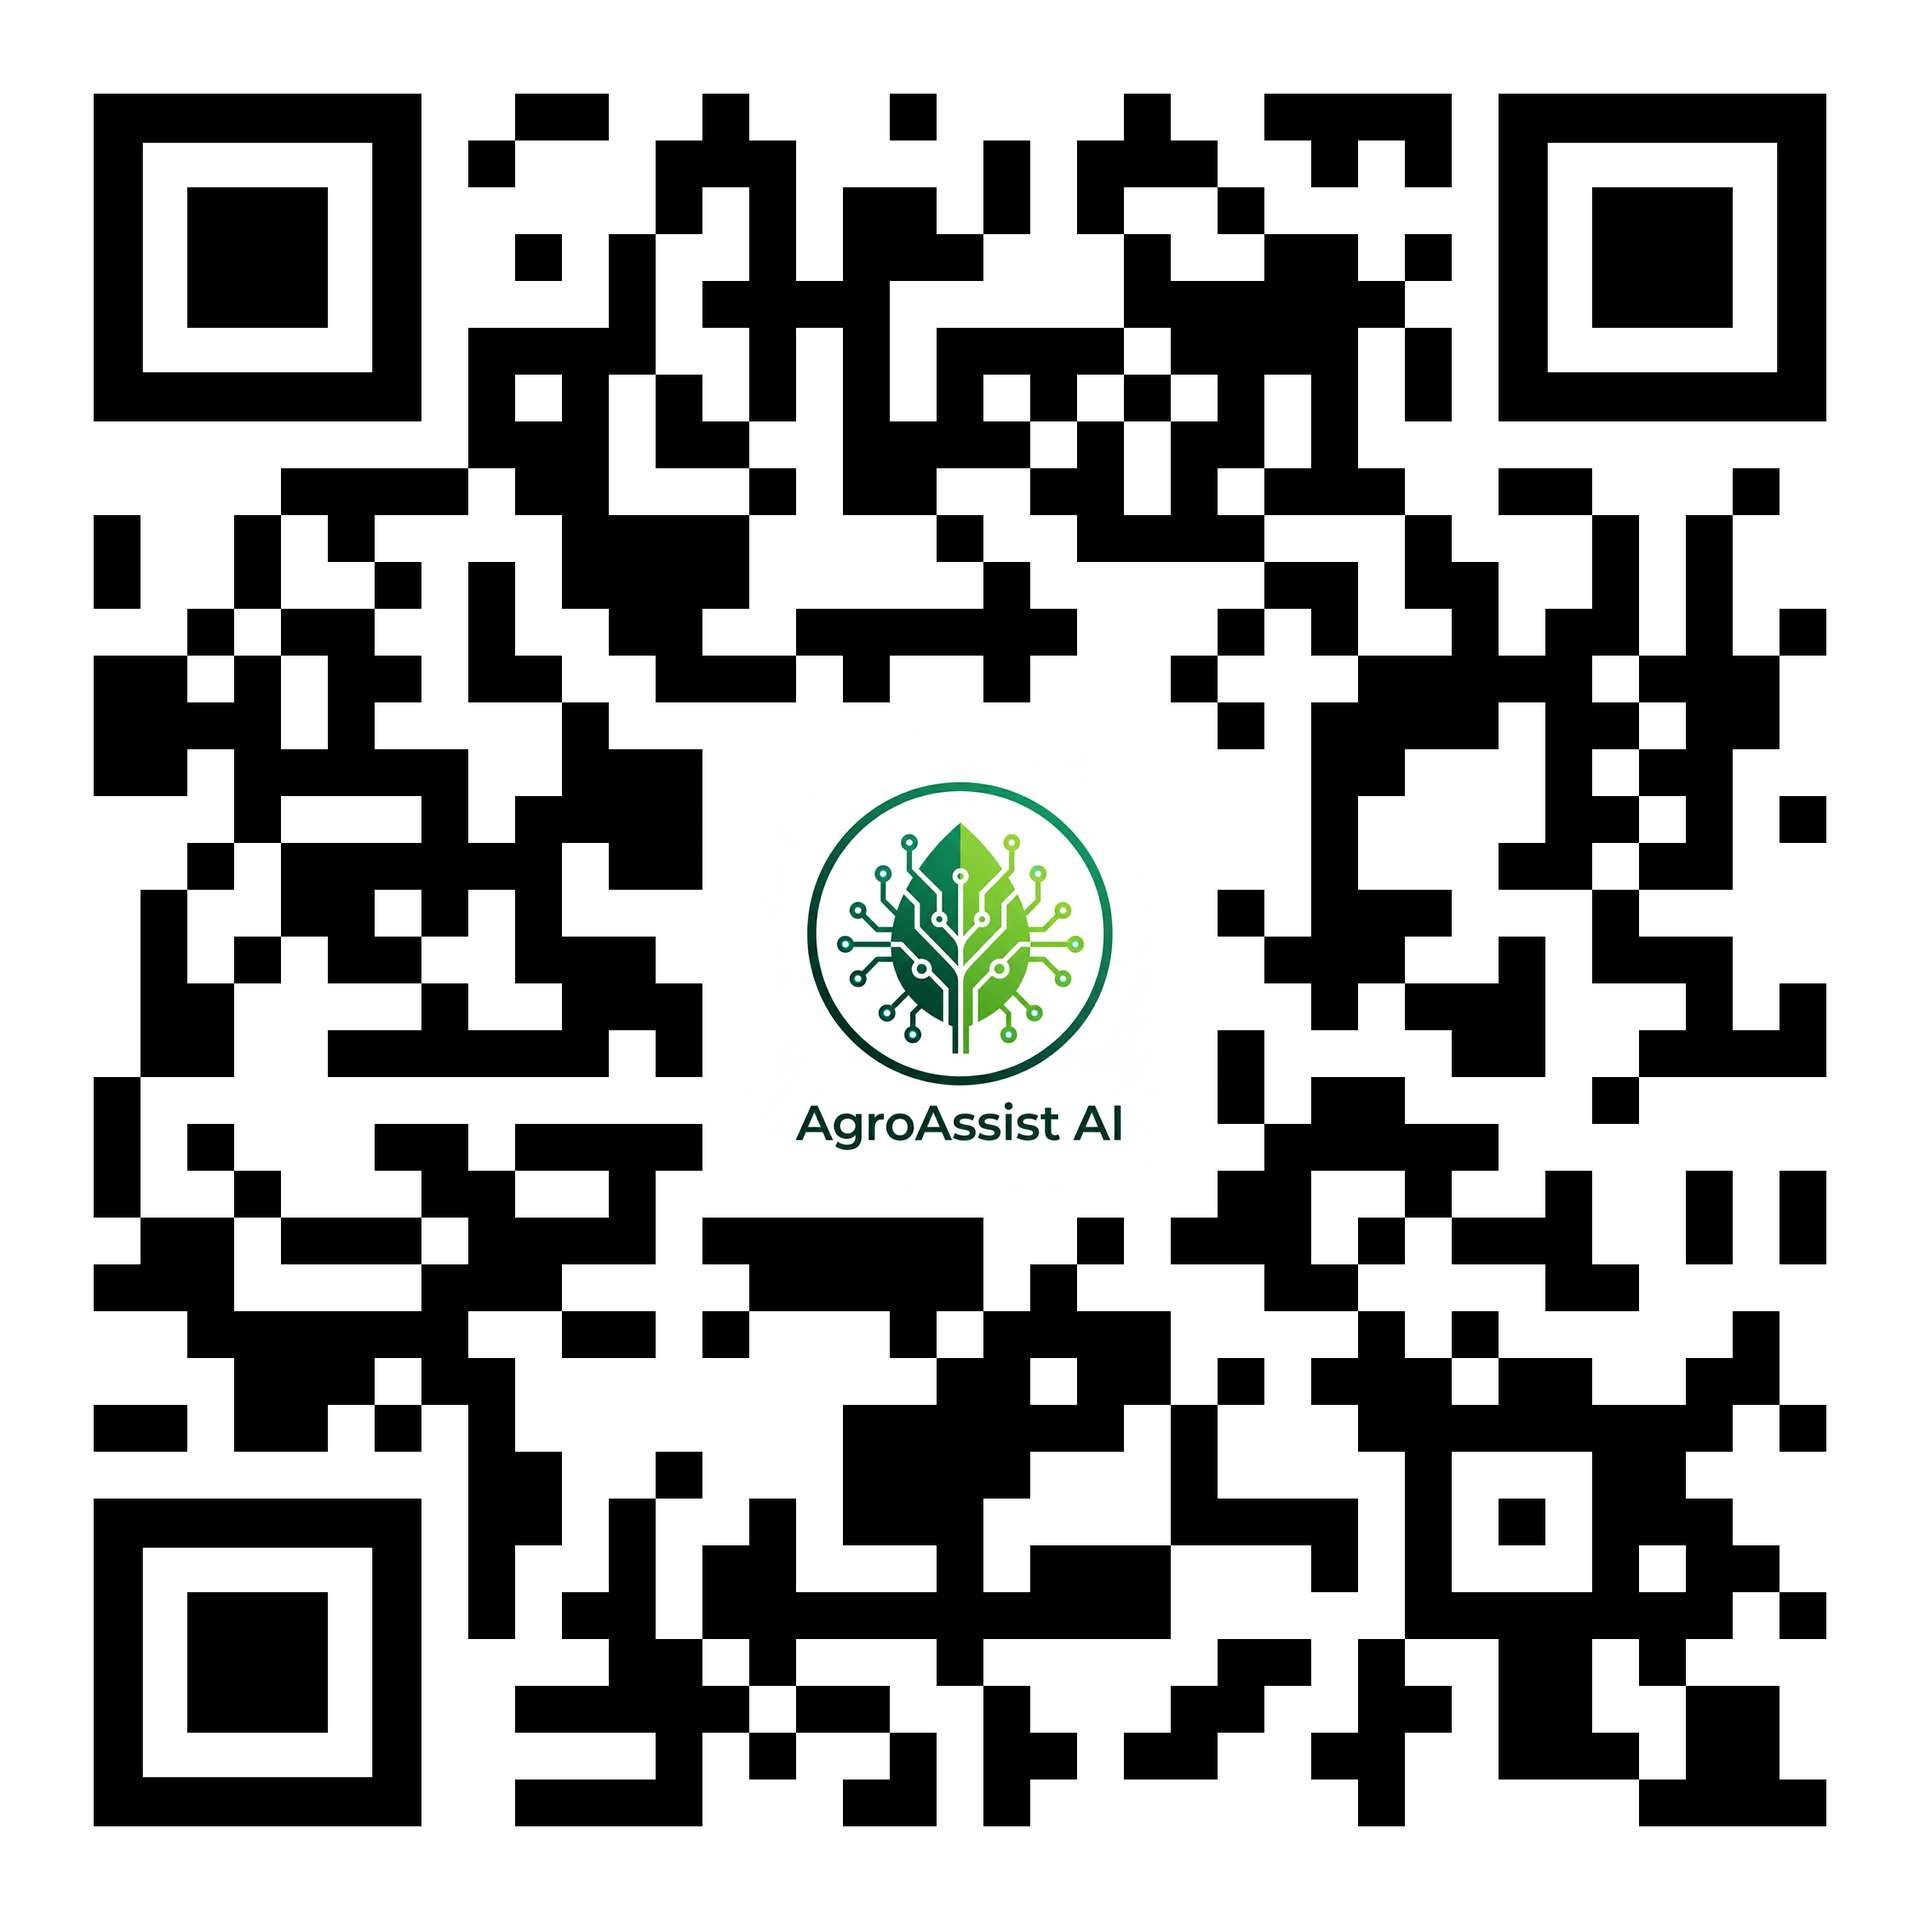
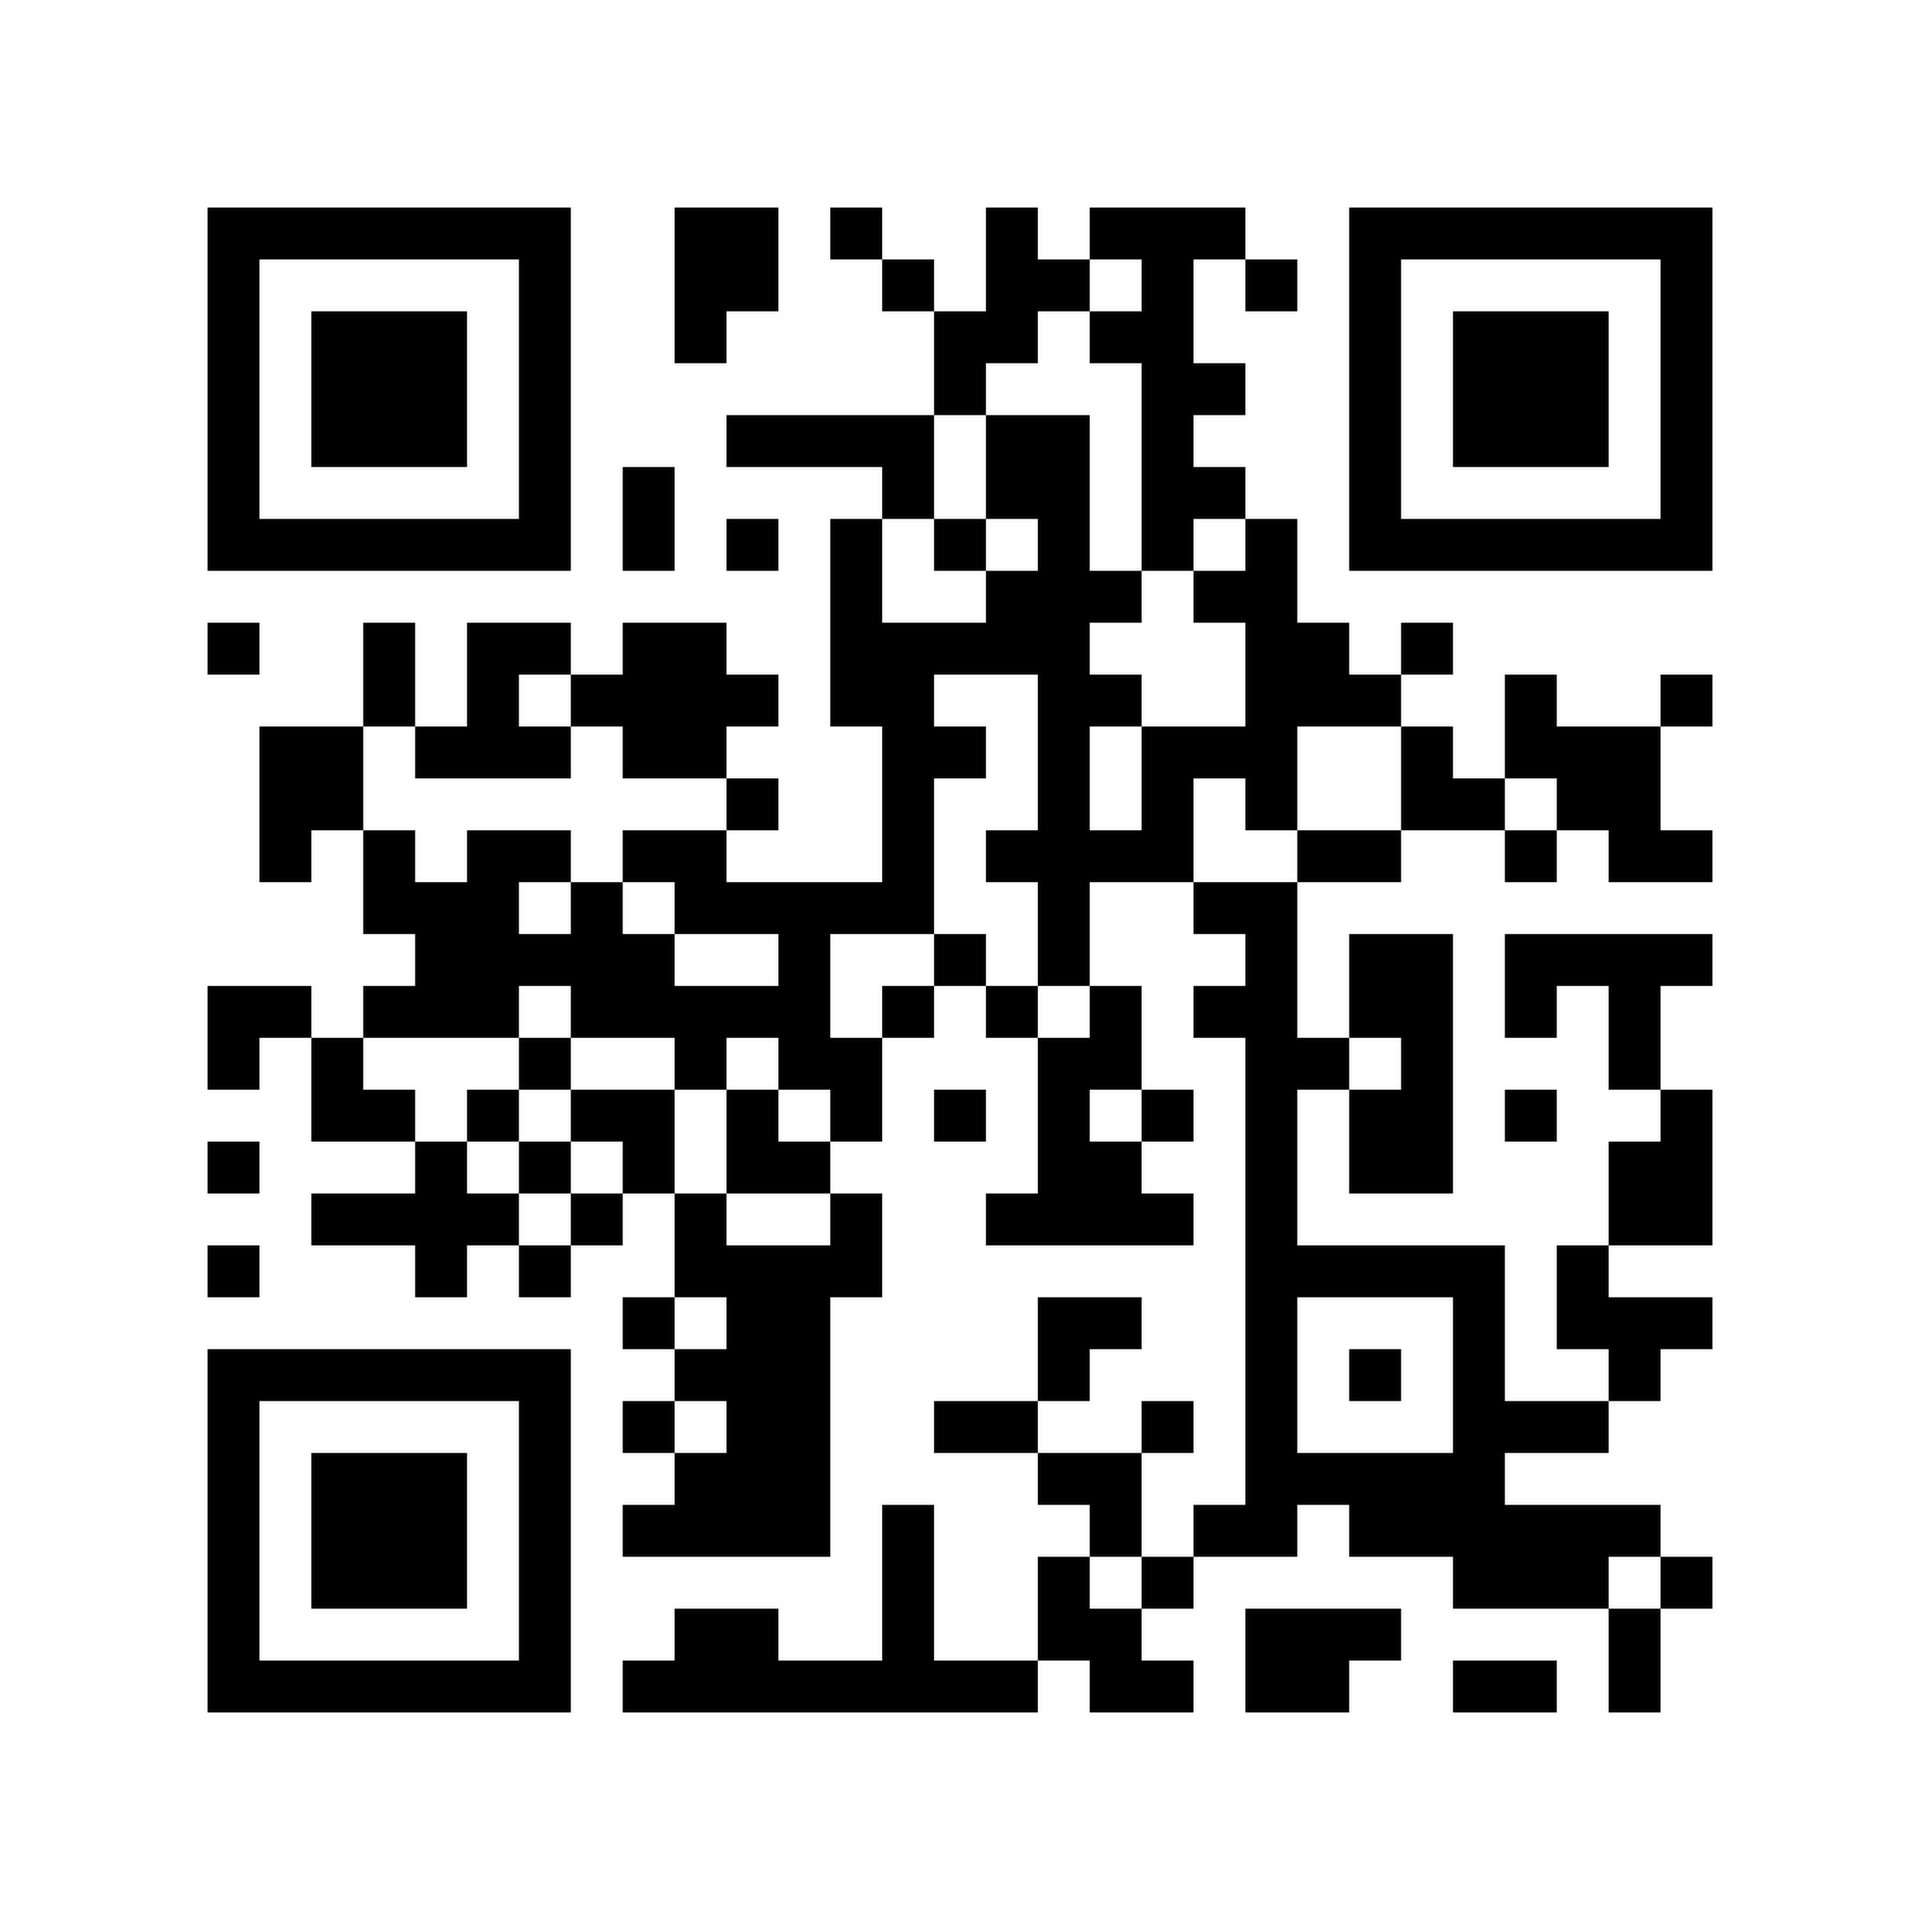
Link Download App buttons and QR code to PWA install page

diff --git a/index.html b/index.html
@@ -34,7 +34,7 @@
                         <button data-lang="sw" class="lang-option">SW</button>
                     </div>
                 </div>
-                <a href="#download" class="btn-nav" data-i18n="nav_download">Download App</a>
+                <a href="https://agroassist-rwanda.web.app/install" class="btn-nav" data-i18n="nav_download">Download App</a>
             </div>
             <button class="mobile-menu-btn" id="mobileMenuBtn">
                 <i class="fa-solid fa-bars"></i>
@@ -54,7 +54,7 @@
                 <h1><span data-i18n="hero_title_1">AI-Powered Crop Disease</span><br><span class="typing-text" id="typingText"></span><span class="typing-cursor">|</span> <span data-i18n="hero_title_2">for Rwanda</span></h1>
                 <p class="hero-subtitle" data-i18n="hero_subtitle">Snap a photo of your crop. Get instant AI diagnosis, treatment recommendations, and expert support — built for Rwandan farmers, in English and Kinyarwanda.</p>
                 <div class="hero-cta">
-                    <a href="#download" class="btn btn-primary btn-lg">
+                    <a href="https://agroassist-rwanda.web.app/install" class="btn btn-primary btn-lg">
                         <i class="fa-solid fa-download"></i>
                         <span data-i18n="hero_cta_download">Download Free App</span>
                     </a>
@@ -610,15 +610,11 @@
                 <div class="download-text">
                     <span class="section-tag section-tag-light" data-i18n="download_tag">Get The App</span>
                     <h2 data-i18n="download_title">Start Diagnosing Your Crops Today</h2>
-                    <p data-i18n="download_desc">Download AgroAssist AI for free. Available as Android APK and Progressive Web App. Works on any smartphone.</p>
+                    <p data-i18n="download_desc">Install AgroAssist AI for free, right from your browser — no Play Store needed. Works on any smartphone.</p>
                     <div class="download-buttons">
-                        <a href="AgroAssist_v1.2.apk" class="btn btn-primary btn-lg" download>
+                        <a href="https://agroassist-rwanda.web.app/install" class="btn btn-primary btn-lg">
                             <i class="fa-solid fa-download"></i>
-                            <span data-i18n="download_btn_apk">Download APK</span>
-                        </a>
-                        <a href="#team" class="btn btn-outline-light btn-lg">
-                            <i class="fa-solid fa-globe"></i>
-                            <span data-i18n="download_btn_web">Coming Soon</span>
+                            <span data-i18n="download_btn_apk">Install App</span>
                         </a>
                     </div>
                     <div class="download-meta">
@@ -629,8 +625,8 @@
                 </div>
                 <div class="download-visual">
                     <div class="qr-code-placeholder">
-                        <img src="agro assist qr-code.png" alt="Scan to Download AgroAssist AI" class="qr-image">
-                        <span data-i18n="download_qr">Scan to Download</span>
+                        <img src="agro assist qr-code.png" alt="Scan to Install AgroAssist AI" class="qr-image">
+                        <span data-i18n="download_qr">Scan to Install</span>
                     </div>
                 </div>
             </div>
